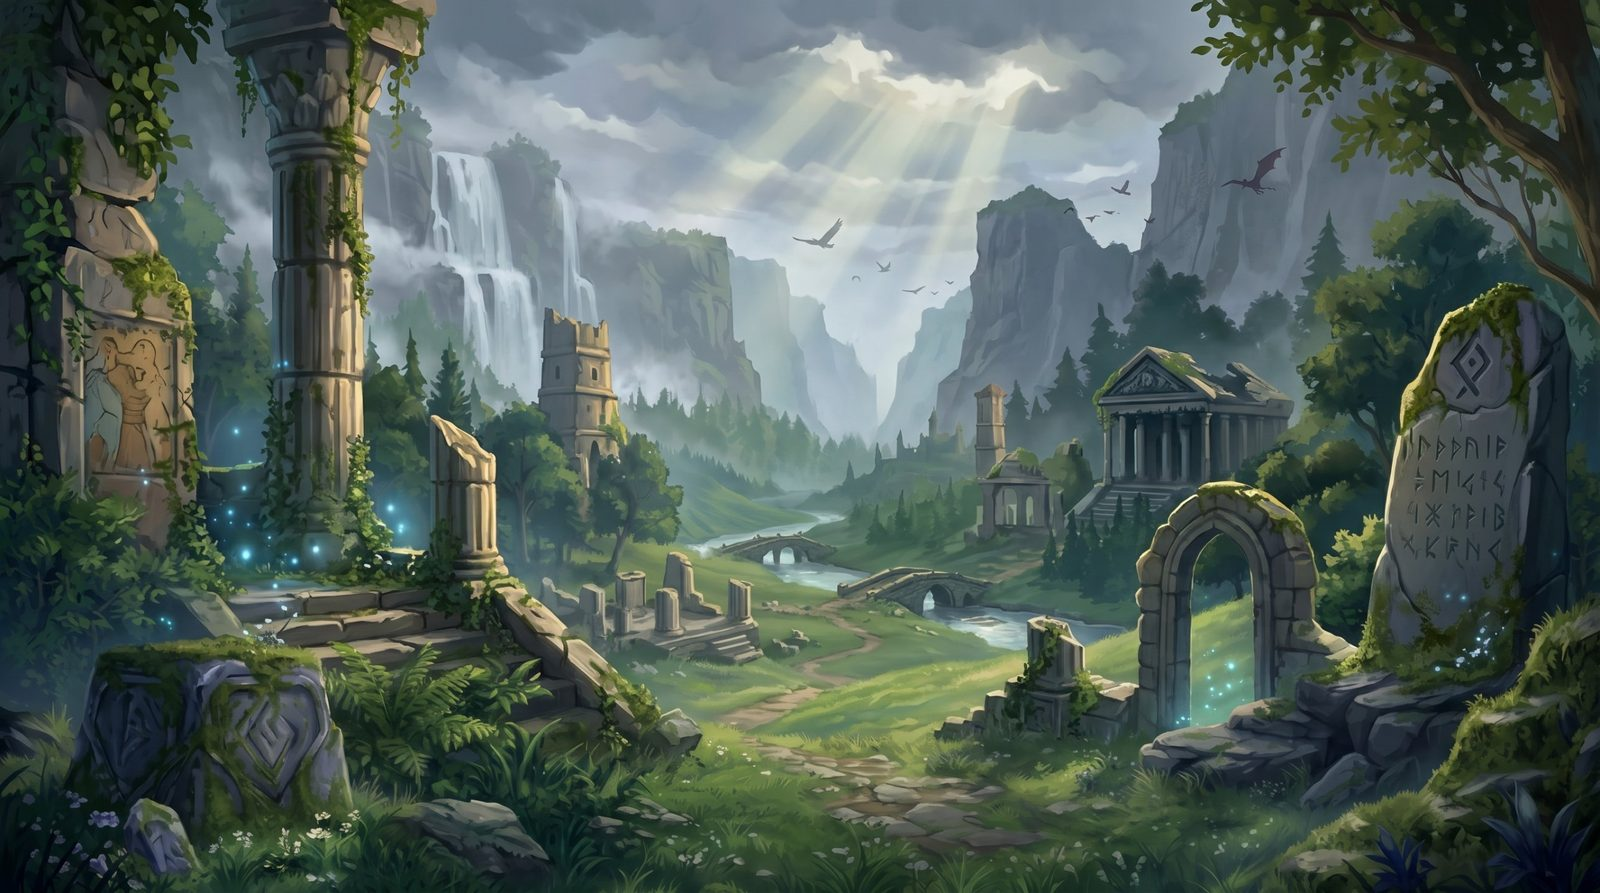
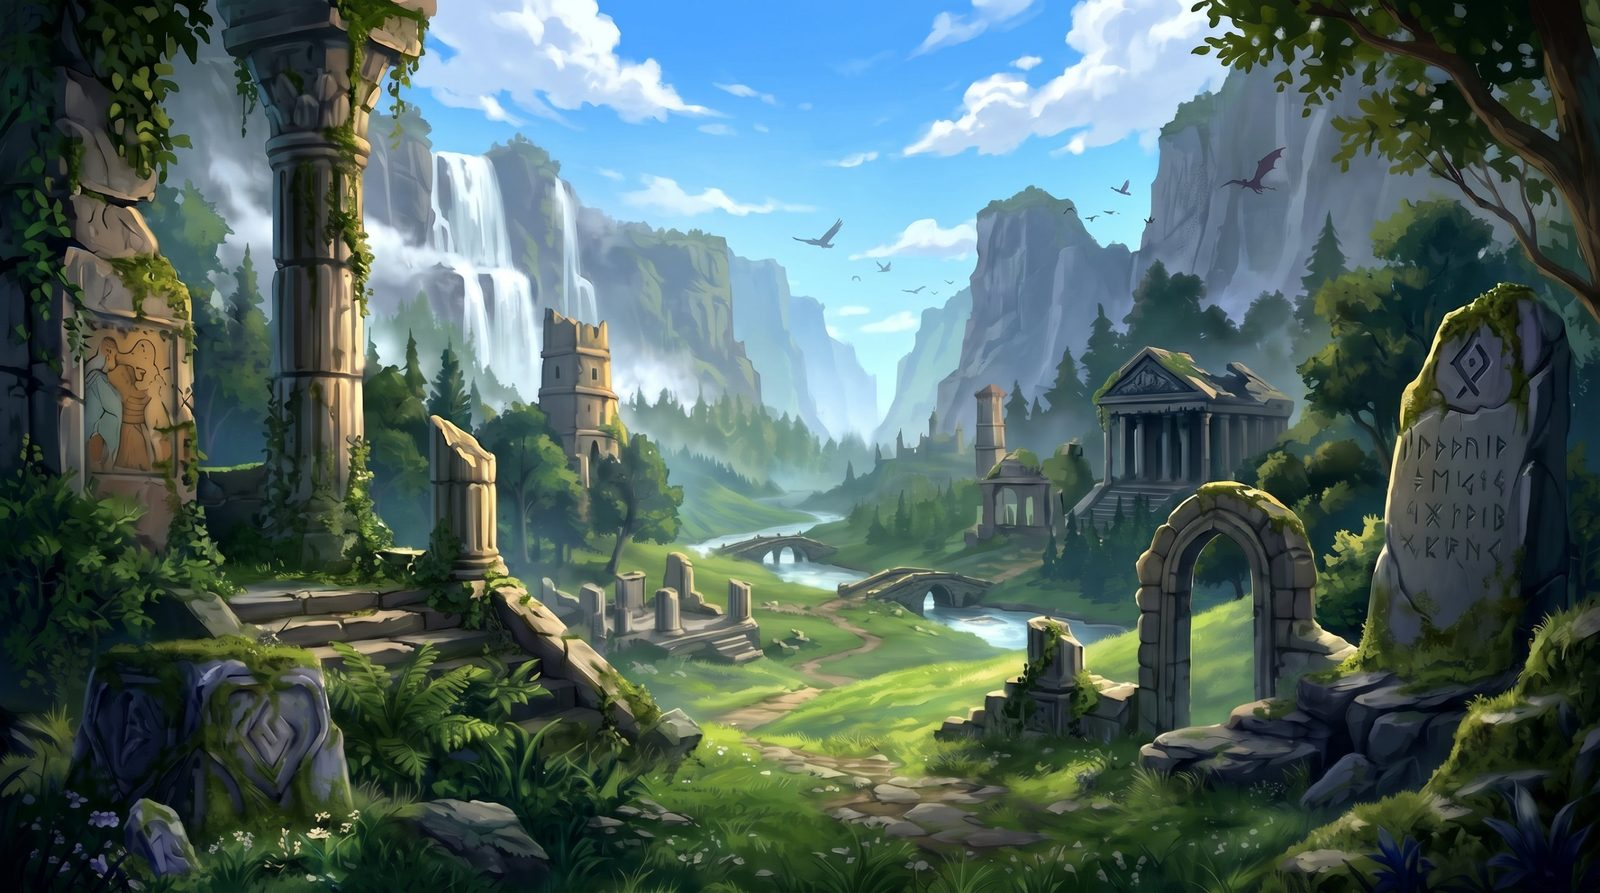
冒険5面（古代の遺跡）の朝・昼・夕方・夜の画像を追加
Claude-Session: https://claude.ai/code/session_01EftAGzqa5a4WGGvn4eGGrQ

diff --git a/index.html b/index.html
@@ -2187,7 +2187,7 @@
         <button onclick="openCouponModal()" title="秘密の鍵"
             style="background:rgba(5,20,10,0.55);border:1px solid rgba(60,140,80,0.35);border-radius:20px;padding:3px 9px;font-size:11px;cursor:pointer;color:rgba(140,200,150,0.65);display:flex;align-items:center;gap:3px;transition:all 0.3s;font-family:'Noto Serif JP',serif;letter-spacing:0.03em;opacity:0.7;flex-shrink:0;">🗝</button>
         <button id="accountChip" onclick="Cloud.chipClick()" title="アカウント"></button>
-        <div style="font-size:9px;letter-spacing:0.12em;color:rgba(200,170,80,0.45);font-family:'Noto Serif JP',serif;text-align:center;flex:1;padding:0 6px;">Designed by Takahiro Iimura<br><span id="appVersion" style="opacity:.8;">ver. 2026.11.02-1555</span></div>
+        <div style="font-size:9px;letter-spacing:0.12em;color:rgba(200,170,80,0.45);font-family:'Noto Serif JP',serif;text-align:center;flex:1;padding:0 6px;">Designed by Takahiro Iimura<br><span id="appVersion" style="opacity:.8;">ver. 2026.11.02-1600</span></div>
         <button id="bgmBtn" onclick="toggleBGM()" title="BGM ON/OFF"
             style="background:rgba(30,20,5,0.7);border:1.5px solid rgba(220,170,50,0.7);border-radius:20px;padding:3px 10px;font-size:12px;cursor:pointer;color:rgba(220,170,50,0.85);display:flex;align-items:center;gap:4px;transition:all 0.3s;font-family:'Noto Serif JP',serif;letter-spacing:0.05em;flex-shrink:0;">🔇 BGM</button>
     </div>
@@ -8245,7 +8245,7 @@ const Cloud = (function () {
         { key: 'forest',   imgs: ['morning', 'day', 'evening', 'night'], tod: 1,   name: 'ささやきの森', icon: '🌲', goal: '🏕', tint: '#8fd060', enc: ['🍄 キノコの精が問いかけてきた', '🦊 森のキツネがなぞなぞを出した', '🌿 木の幹に古い文字が刻まれている', '🦉 フクロウが言葉の意味をたずねた'] },
         { key: 'cave',     imgs: ['morning', 'day', 'evening', 'night'], tod: .35, name: '霧の洞窟',     icon: '🦇', goal: '💎', tint: '#8fa0ff', enc: ['🦇 コウモリの群れが道をふさいだ', '🕯 壁に光る文字が浮かび上がった', '🗝 錆びた扉に謎の言葉が…', '💧 地底湖に言葉が映っている'] },
         { key: 'hill',     imgs: ['morning', 'day', 'evening', 'night'], tod: .3,  name: '星降る丘',     icon: '⛰', goal: '🔭', tint: '#c9a6ff', enc: ['⭐ 流れ星が言葉を落としていった', '🐑 羊飼いの少年が道をたずねた', '🌙 月の精がささやいた', '🪁 風に乗って手紙が飛んできた'] },
-        { key: 'ruins',    imgs: ['day'], tod: 1,   name: '古代の遺跡',   icon: '🏛', goal: '📜', tint: '#e8b850', enc: ['🗿 石像が口を開いた', '📜 古文書の一節が読めそうだ', '🐍 封印の蛇が合言葉を求めている', '🏺 壺の底に文字が刻まれている'] },
+        { key: 'ruins',    imgs: ['morning', 'day', 'evening', 'night'], tod: 1,   name: '古代の遺跡',   icon: '🏛', goal: '📜', tint: '#e8b850', enc: ['🗿 石像が口を開いた', '📜 古文書の一節が読めそうだ', '🐍 封印の蛇が合言葉を求めている', '🏺 壺の底に文字が刻まれている'] },
         { key: 'mountain', imgs: ['day'], tod: 1,   name: '竜の山脈',     icon: '🐉', goal: '🥚', tint: '#ff8a60', enc: ['🔥 竜の吐息で道が熱い…', '🦅 大鷲が試練を与えた', '⛏ 鉱夫が岩に刻んだ言葉を見せた', '🌋 火山の精霊が問いかけた'] },
         { key: 'castle',   imgs: ['day'], tod: 1,   name: '天空の城',     icon: '🏰', goal: '👑', tint: '#80e0ff', enc: ['☁ 雲の門番が合言葉を問う', '👑 王の書庫で不思議な本を見つけた', '🕊 白い鳩が手紙を運んできた', '🔔 塔の鐘に言葉が刻まれている'] },
     ];
